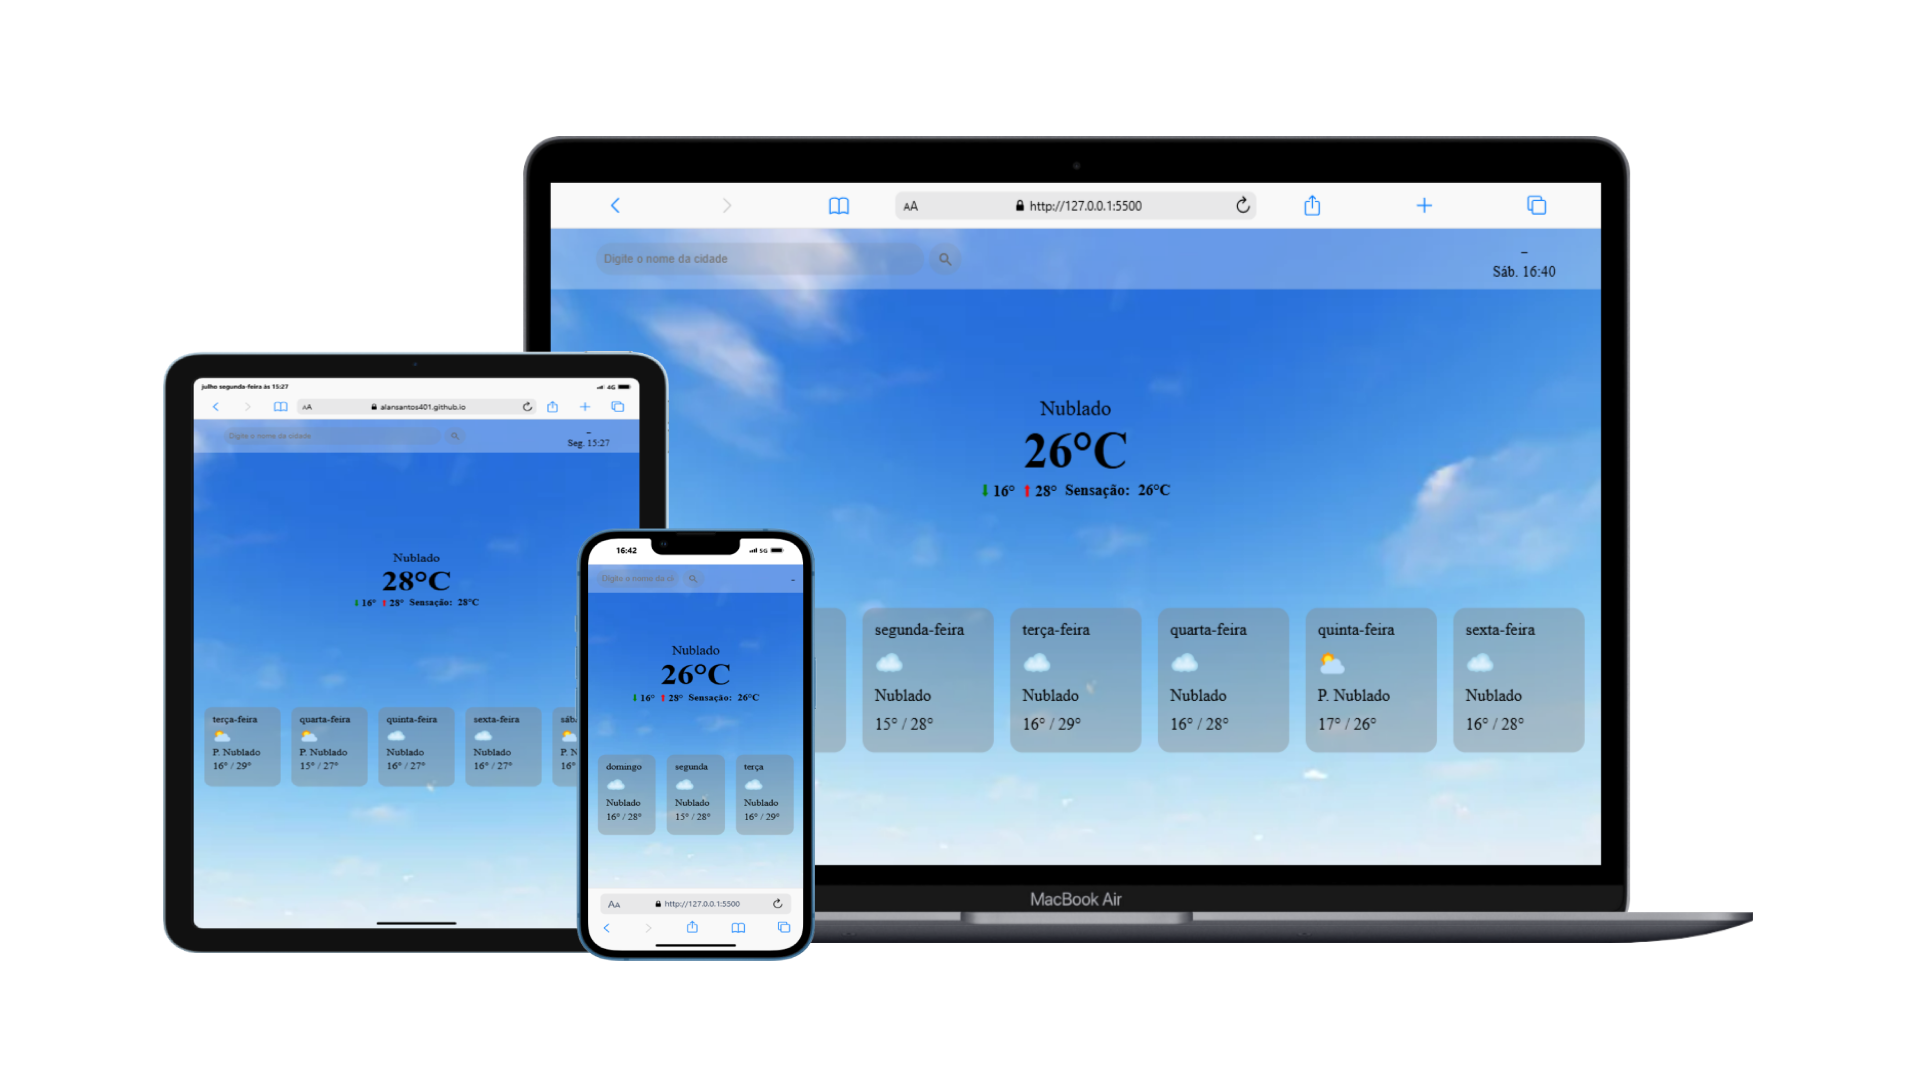
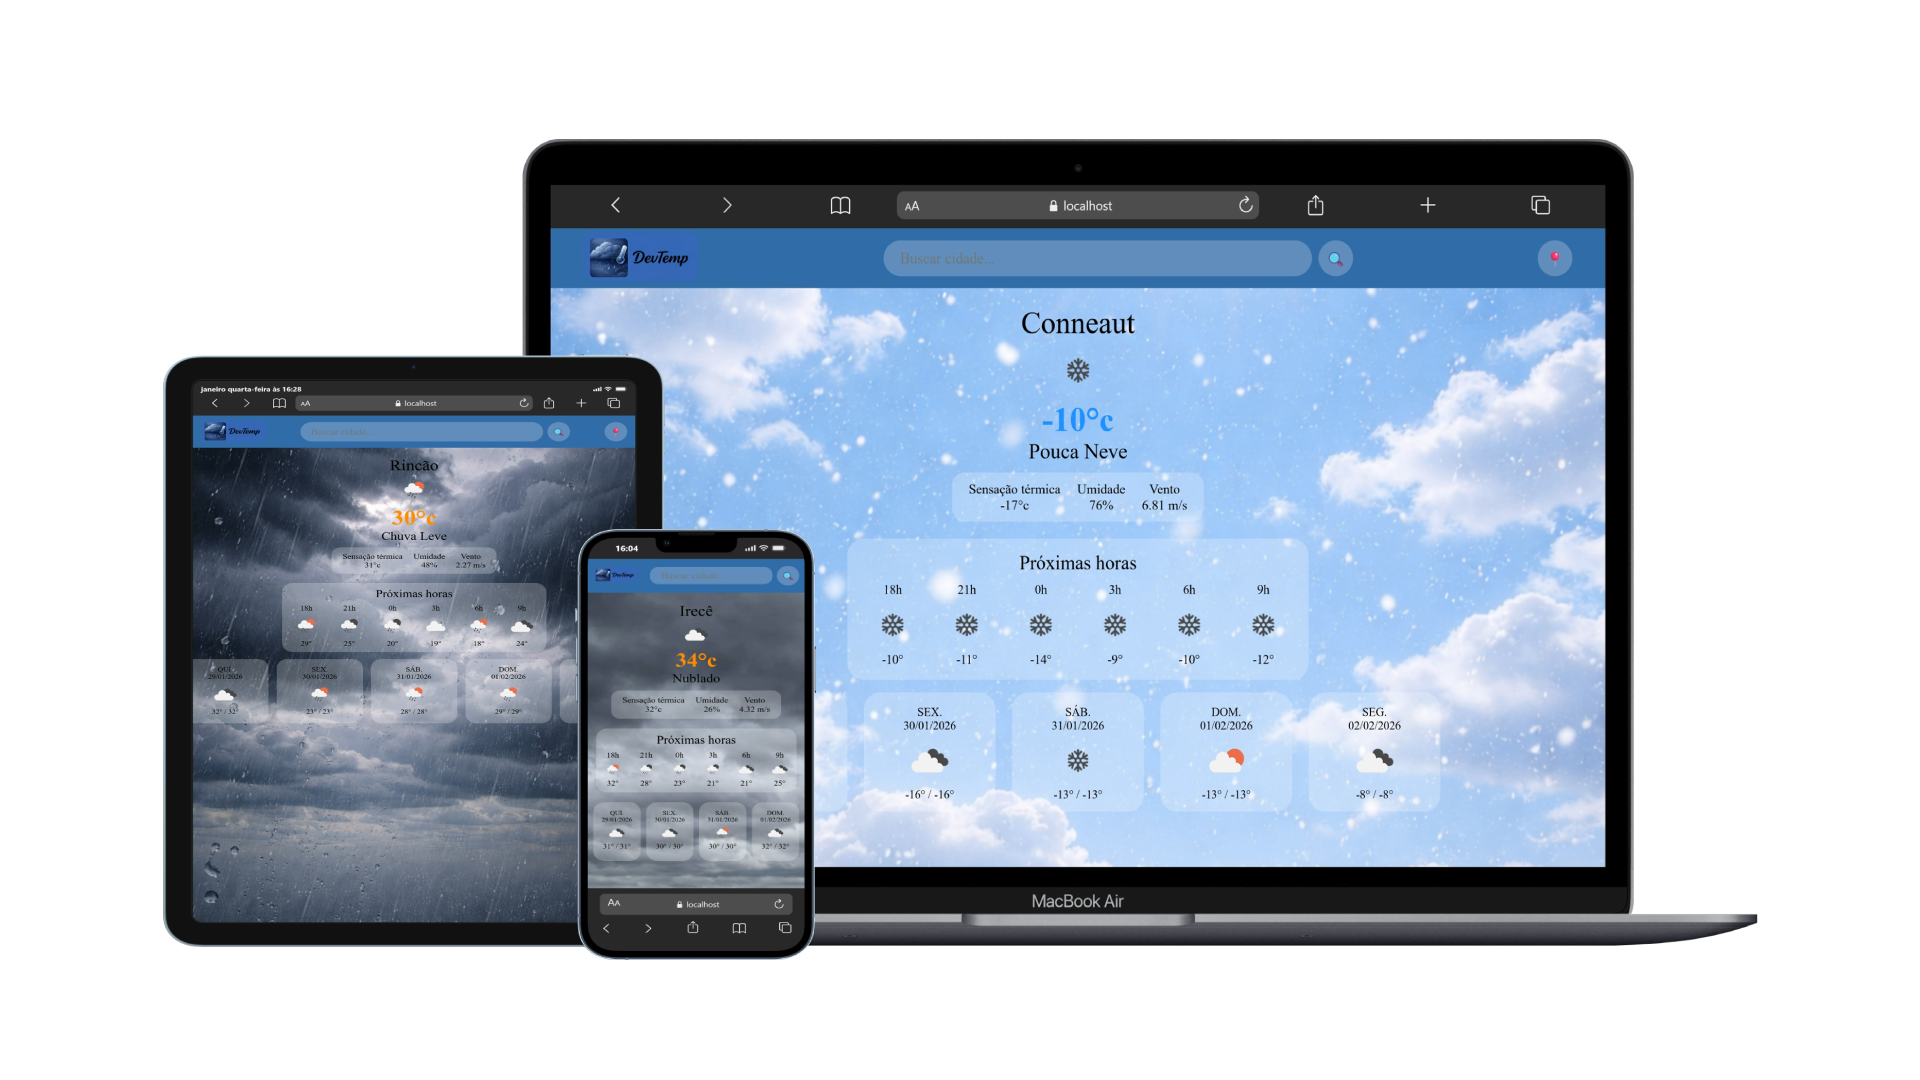
Atualização de Projeto Previsão do tempo

diff --git a/index.html b/index.html
@@ -176,7 +176,7 @@
             <a class="btn-ver" onclick="abrirModal('jogo-da-cobrinha')">Ver mais</a>
           </div>
         </div>
-        <div class="swiper-slide card-projeto"> 
+        <div class="swiper-slide card-projeto">
           <img src="./assets/estudando_com_fe.png" alt="Dev Cine">
           <div class="overlay">
             <h3>Estudando com Fé</h3>
@@ -200,7 +200,7 @@
             <a class="btn-ver" onclick="abrirModal('devbills')">Ver mais</a>
           </div>
         </div>
-        <div class="swiper-slide card-projeto"> 
+        <div class="swiper-slide card-projeto">
           <img src="./assets/devcine.png" alt="Dev Cine">
           <div class="overlay">
             <h3>Dev Cine</h3>
@@ -236,8 +236,8 @@
             <a class="btn-ver" onclick="abrirModal('projetosupermario')">Ver mais</a>
           </div>
         </div>
-        <div class="swiper-slide card-projeto"> 
-        <img src="./assets/conversor-de-moedas.png" alt="Conversor de Moedas">
+        <div class="swiper-slide card-projeto">
+          <img src="./assets/conversor-de-moedas.png" alt="Conversor de Moedas">
           <div class="overlay">
             <h3>Conversor de Moedas</h3>
             <div class="icons">
@@ -253,9 +253,9 @@
           <div class="overlay">
             <h3>Previsão do Tempo</h3>
             <div class="icons">
-              <i class="devicon-html5-plain"></i>
+              <i class="devicon-react-original"></i>
+              <i class="devicon-typescript-plain"></i>
               <i class="devicon-css3-plain"></i>
-              <i class="devicon-javascript-plain"></i>
             </div>
             <a class="btn-ver" onclick="abrirModal('previsao-do-tempo')">Ver mais</a>
           </div>
@@ -270,7 +270,7 @@
       <div class="swiper-pagination"></div>
     </div>
 
-      <div id="automacao_n8n" class="modal">
+    <div id="automacao_n8n" class="modal">
       <div class="modal-content">
         <span class="fechar" onclick="fecharModal('automacao_n8n')">&times;</span>
         <h2>🤖 Projetos de Automação Inteligente</h2>
@@ -297,10 +297,13 @@
 
         <h3>2⃣ Agentes Inteligentes por Área</h3>
         <ul>
-          <li><strong>Agente de Curiosidades:</strong> Envia fatos, dicas e curiosidades para engajamento dos usuários.</li>
+          <li><strong>Agente de Curiosidades:</strong> Envia fatos, dicas e curiosidades para engajamento dos usuários.
+          </li>
           <li><strong>Agente Financeiro:</strong> Analisa dados financeiros, gera relatórios e envia alertas.</li>
-          <li><strong>Agente de Vendas:</strong> Automatiza follow-ups, envio de propostas e notificações para clientes.</li>
-          <li><strong>Agente de Clínicas:</strong> Gerencia agendamento, envio de lembretes e relatórios de pacientes.</li>
+          <li><strong>Agente de Vendas:</strong> Automatiza follow-ups, envio de propostas e notificações para clientes.
+          </li>
+          <li><strong>Agente de Clínicas:</strong> Gerencia agendamento, envio de lembretes e relatórios de pacientes.
+          </li>
           <li><strong>Análise de Reels:</strong> Coleta e analisa métricas de vídeos para otimização de conteúdo.</li>
         </ul>
 
@@ -616,7 +619,7 @@
           Mobile:
           <a class="repositorio" href="https://github.com/AlanSantos401/Conversor-App.git" target="_blank"
             rel="noopener noreferrer">
-            "https://github.com/AlanSantos401/Conversor-App.git
+            https://github.com/AlanSantos401/Conversor-App.git
           </a>
         </div>
 
@@ -631,35 +634,84 @@
     <div id="previsao-do-tempo" class="modal">
       <div class="modal-content">
         <span class="fechar" onclick="fecharModal('previsao-do-tempo')">&times;</span>
-        <h2> 🌤 Previsão do Tempo</h2>
-        <p>O projeto Previsão do Tempo é uma aplicação web simples e intuitiva que exibe informações meteorológicas em
-          tempo real de qualquer cidade do mundo. Utilizando integração com APIs de clima (como OpenWeatherMap), a
-          aplicação permite ao usuário digitar o nome de uma cidade e receber dados atualizados.</p>
-        <h3>Principais funcionalidades:</h3>
+
+        <h2>🌤 DevTempo — (Web & Mobile)</h2>
+
+        <p>
+          O <strong>DevTempo</strong> é um projeto completo de previsão do tempo, disponível em versão
+          <strong>Web</strong> e <strong>Mobile</strong>, desenvolvido com foco em usabilidade,
+          visual moderno e dados climáticos em tempo real.
+          O sistema permite ao usuário pesquisar qualquer cidade do mundo e visualizar informações
+          meteorológicas de forma clara, intuitiva e responsiva.
+        </p>
+
+        <h3>🔹 Principais funcionalidades:</h3>
         <ul>
-          <li> ⏱ Previsão em tempo real.</li>
-          <li> 🌡 Atualização automática da temperatura.</li>
-          <li> 🌦 Condição do tempo (ensolarado, nublado, chuvoso, etc.).</li>
-          <li> 💧 Visualização de umidade.</li>
+          <li>🔍 Busca de cidades com navegação dinâmica</li>
+          <li>🌡 Clima atual (temperatura, sensação térmica, umidade e vento)</li>
+          <li>⏰ Previsão horária para as próximas horas</li>
+          <li>📅 Previsão estendida para os próximos dias</li>
+          <li>🌙🎨 Background dinâmico que muda conforme o clima e período (dia/noite)</li>
+          <li>⚠ Tratamento de erros (cidade não encontrada, loading e estados vazios)</li>
+          <li>🧼 Limpeza automática do input após a busca</li>
+          <li>📱 Layout totalmente responsivo (Web, Tablets e Mobile)</li>
         </ul>
-        <h3>Ferramentas utilizadas:</h3>
+
+        <h3>🛠 Tecnologias utilizadas (Web):</h3>
         <ul>
-          <li><strong>Html:5:</strong> Estruturação da interface.</li>
-          <li><strong>Css:</strong> Estilização visual e responsividade.</li>
-          <li><strong>JavaScript:</strong> Lógica de aplicação, manipulação de dados da API.</li>
+          <li><strong>React</strong></li>
+          <li><strong>TypeScript</strong></li>
+          <li><strong>Styled-Components</strong></li>
+          <li><strong>OpenWeather API</strong></li>
+          <li><strong>Hooks personalizados</strong></li>
+          <li><strong>Componentização e boas práticas de estado</strong></li>
+          <li><strong>Git & GitHub</strong></li>
         </ul>
+
+        <h3>📱 Tecnologias utilizadas (App Mobile):</h3>
+        <ul>
+          <li><strong>React Native</strong></li>
+          <li><strong>Expo</strong></li>
+          <li><strong>TypeScript</strong></li>
+          <li><strong>Expo Router</strong></li>
+          <li><strong>Axios</strong></li>
+          <li><strong>OpenWeather API</strong></li>
+          <li><strong>Hooks personalizados</strong></li>
+          <li><strong>Git & GitHub</strong></li>
+        </ul>
+
+        <h3>📌 Projeto focado em:</h3>
+        <ul>
+          <li>✔ Boa experiência do usuário (UX)</li>
+          <li>✔ Código organizado e escalável</li>
+          <li>✔ Tratamento correto de estados (loading, sucesso e erro)</li>
+        </ul>
+
         <div>
-          <h3>Repositório:</h3>
-          <a class="repositorio" href="https://github.com/AlanSantos401/Previsao-do-tempo.git" target="_blank"
-            rel="noopener noreferrer">https://github.com/AlanSantos401/Previsao-do-tempo.git</a>
+          <h3>🔗 Repositórios:</h3>
+          <p>
+            <a class="repositorio" href="https://github.com/AlanSantos401/DevTempo-web" target="_blank">
+              Web — GitHub
+            </a>
+          </p>
+          <p>
+            <a class="repositorio" href="https://github.com/AlanSantos401/DevTempo-Mobile" target="_blank">
+              App Mobile — GitHub
+            </a>
+          </p>
         </div>
+
         <div class="links-github">
-          <video src="./videos/previsao-do-tempo.mp4" controls> </video>
-          <a href="https://alansantos401.github.io/Previsao-do-tempo/" target="_blank" rel="noopener noreferrer">Ver
-            Projeto</a>
+          <video src="./videos/previsao-do-tempo.mp4" controls></video>
+
+          <a href="https://previsao-do-tempo-am2p.vercel.app/" target="_blank">
+            🌍 Ver Projeto Web
+          </a>
         </div>
+
       </div>
     </div>
+
 
   </section>
 
